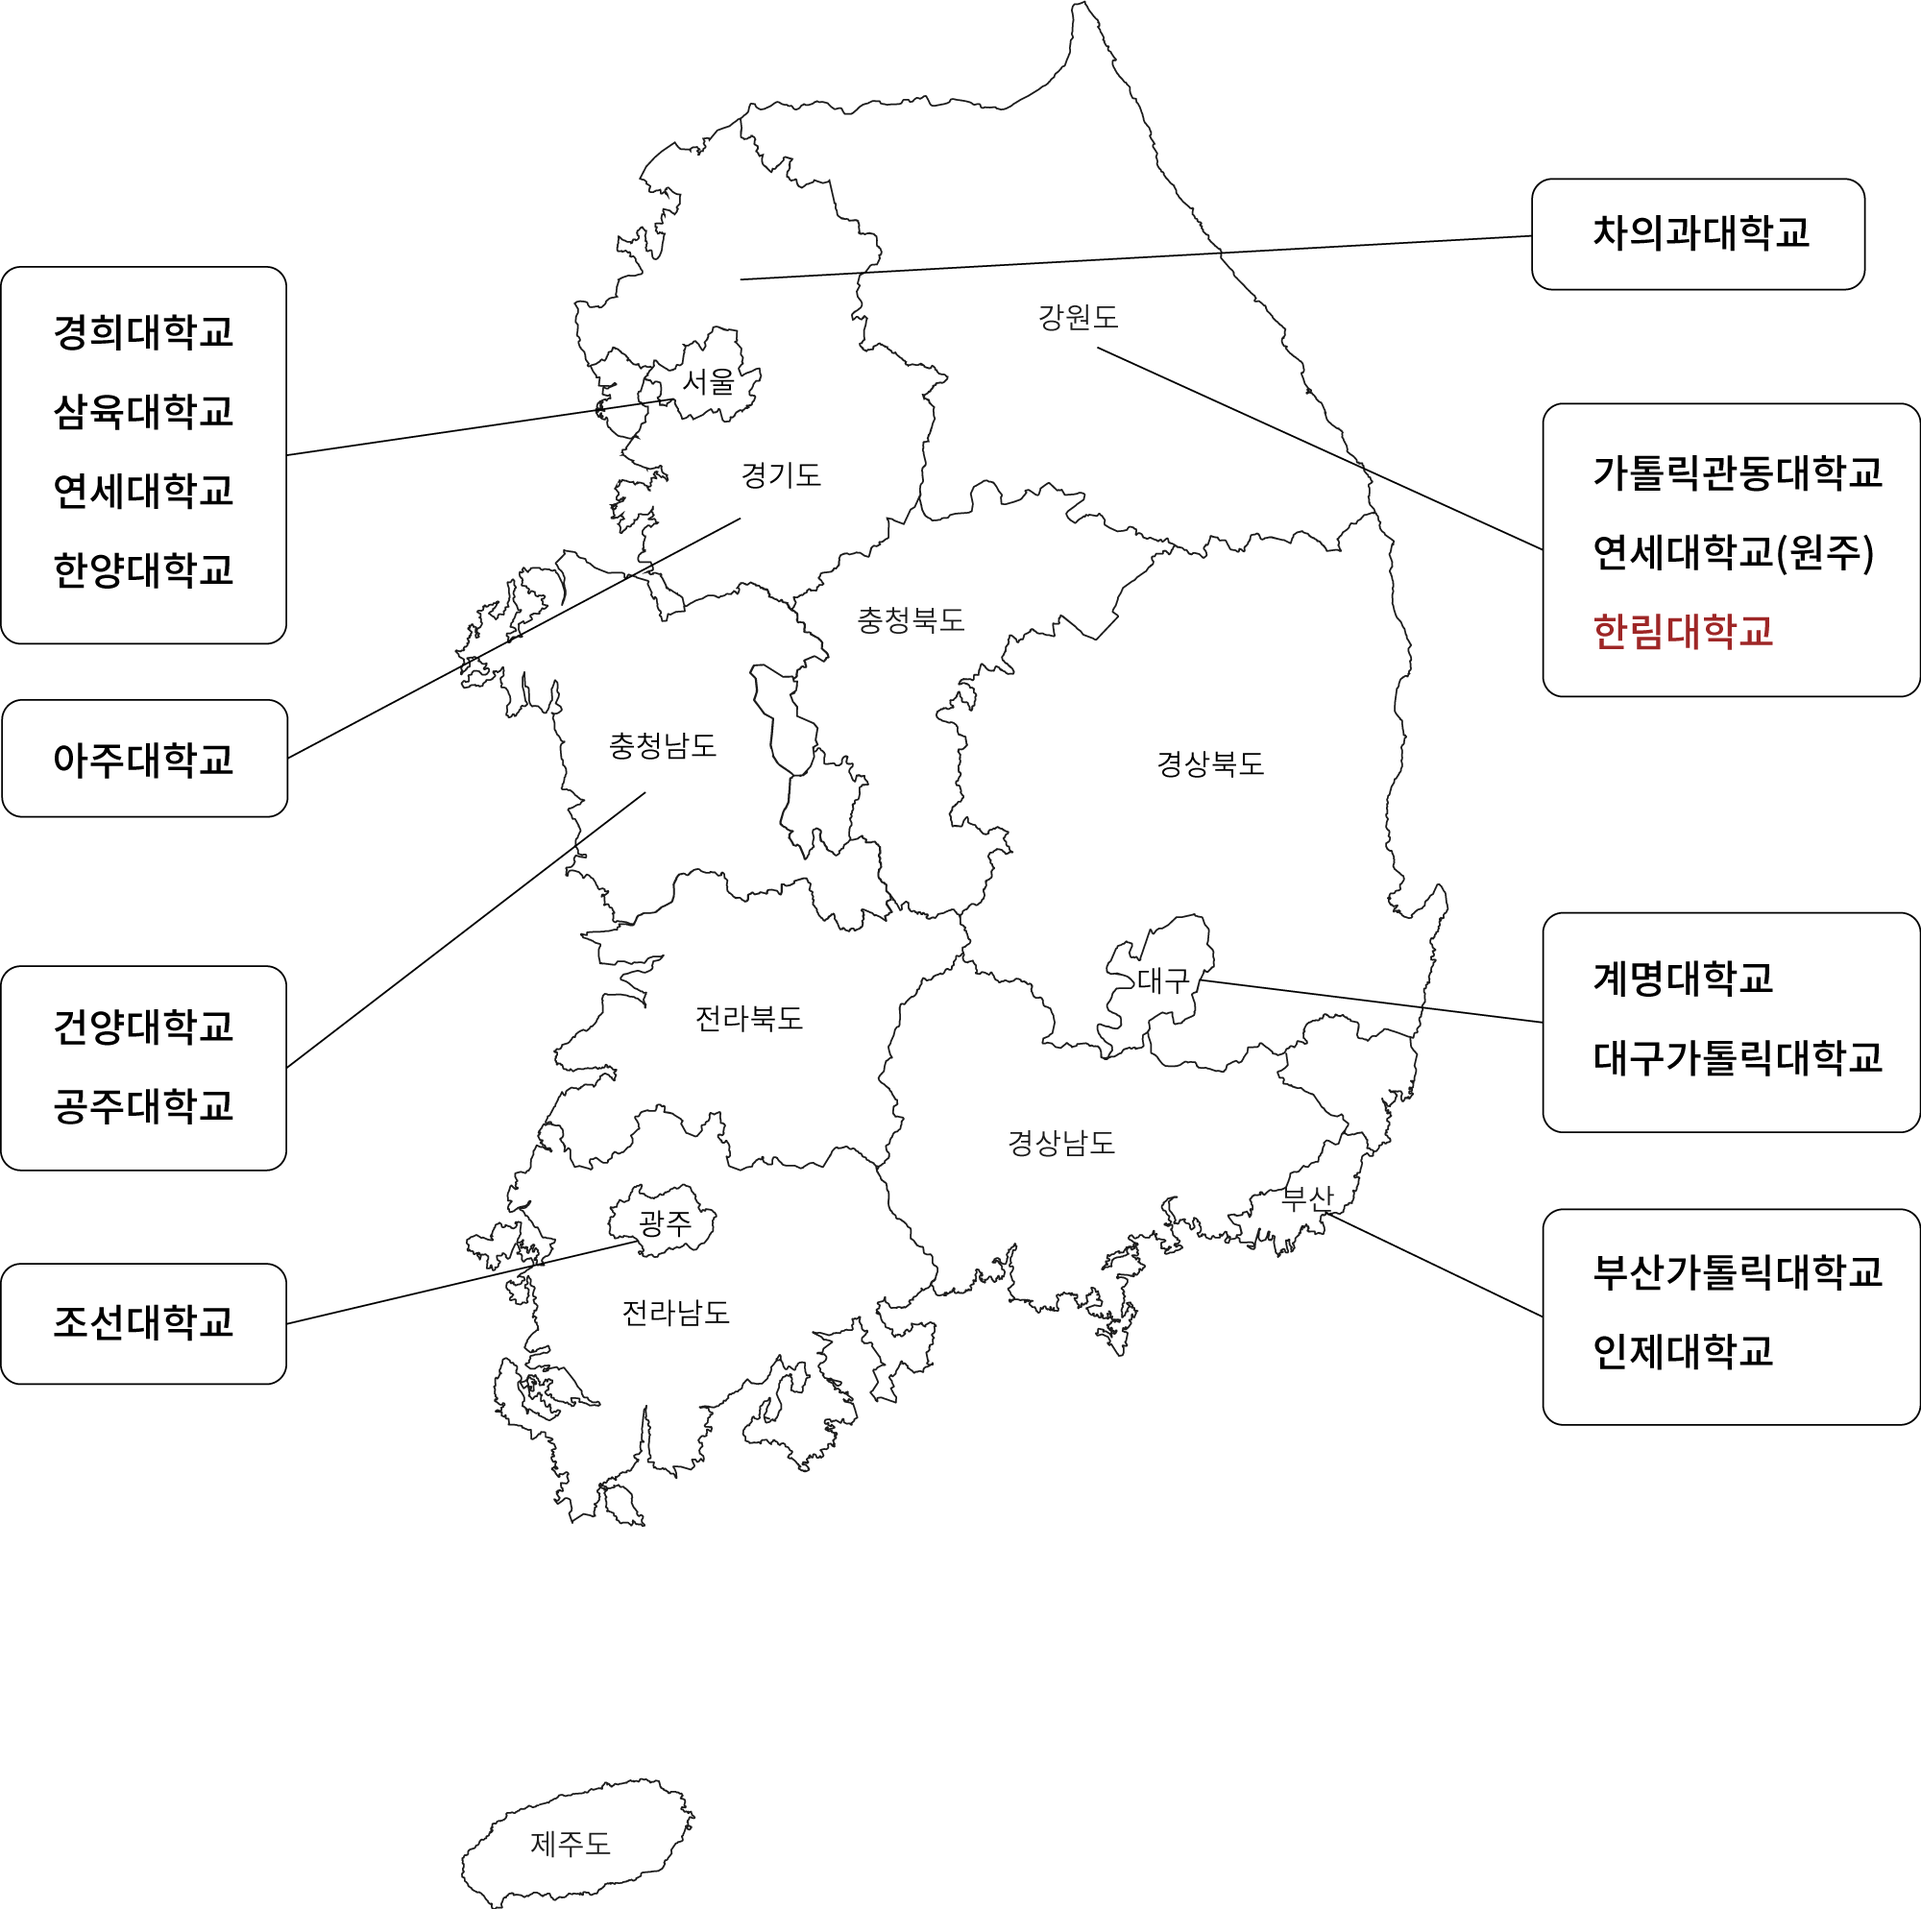
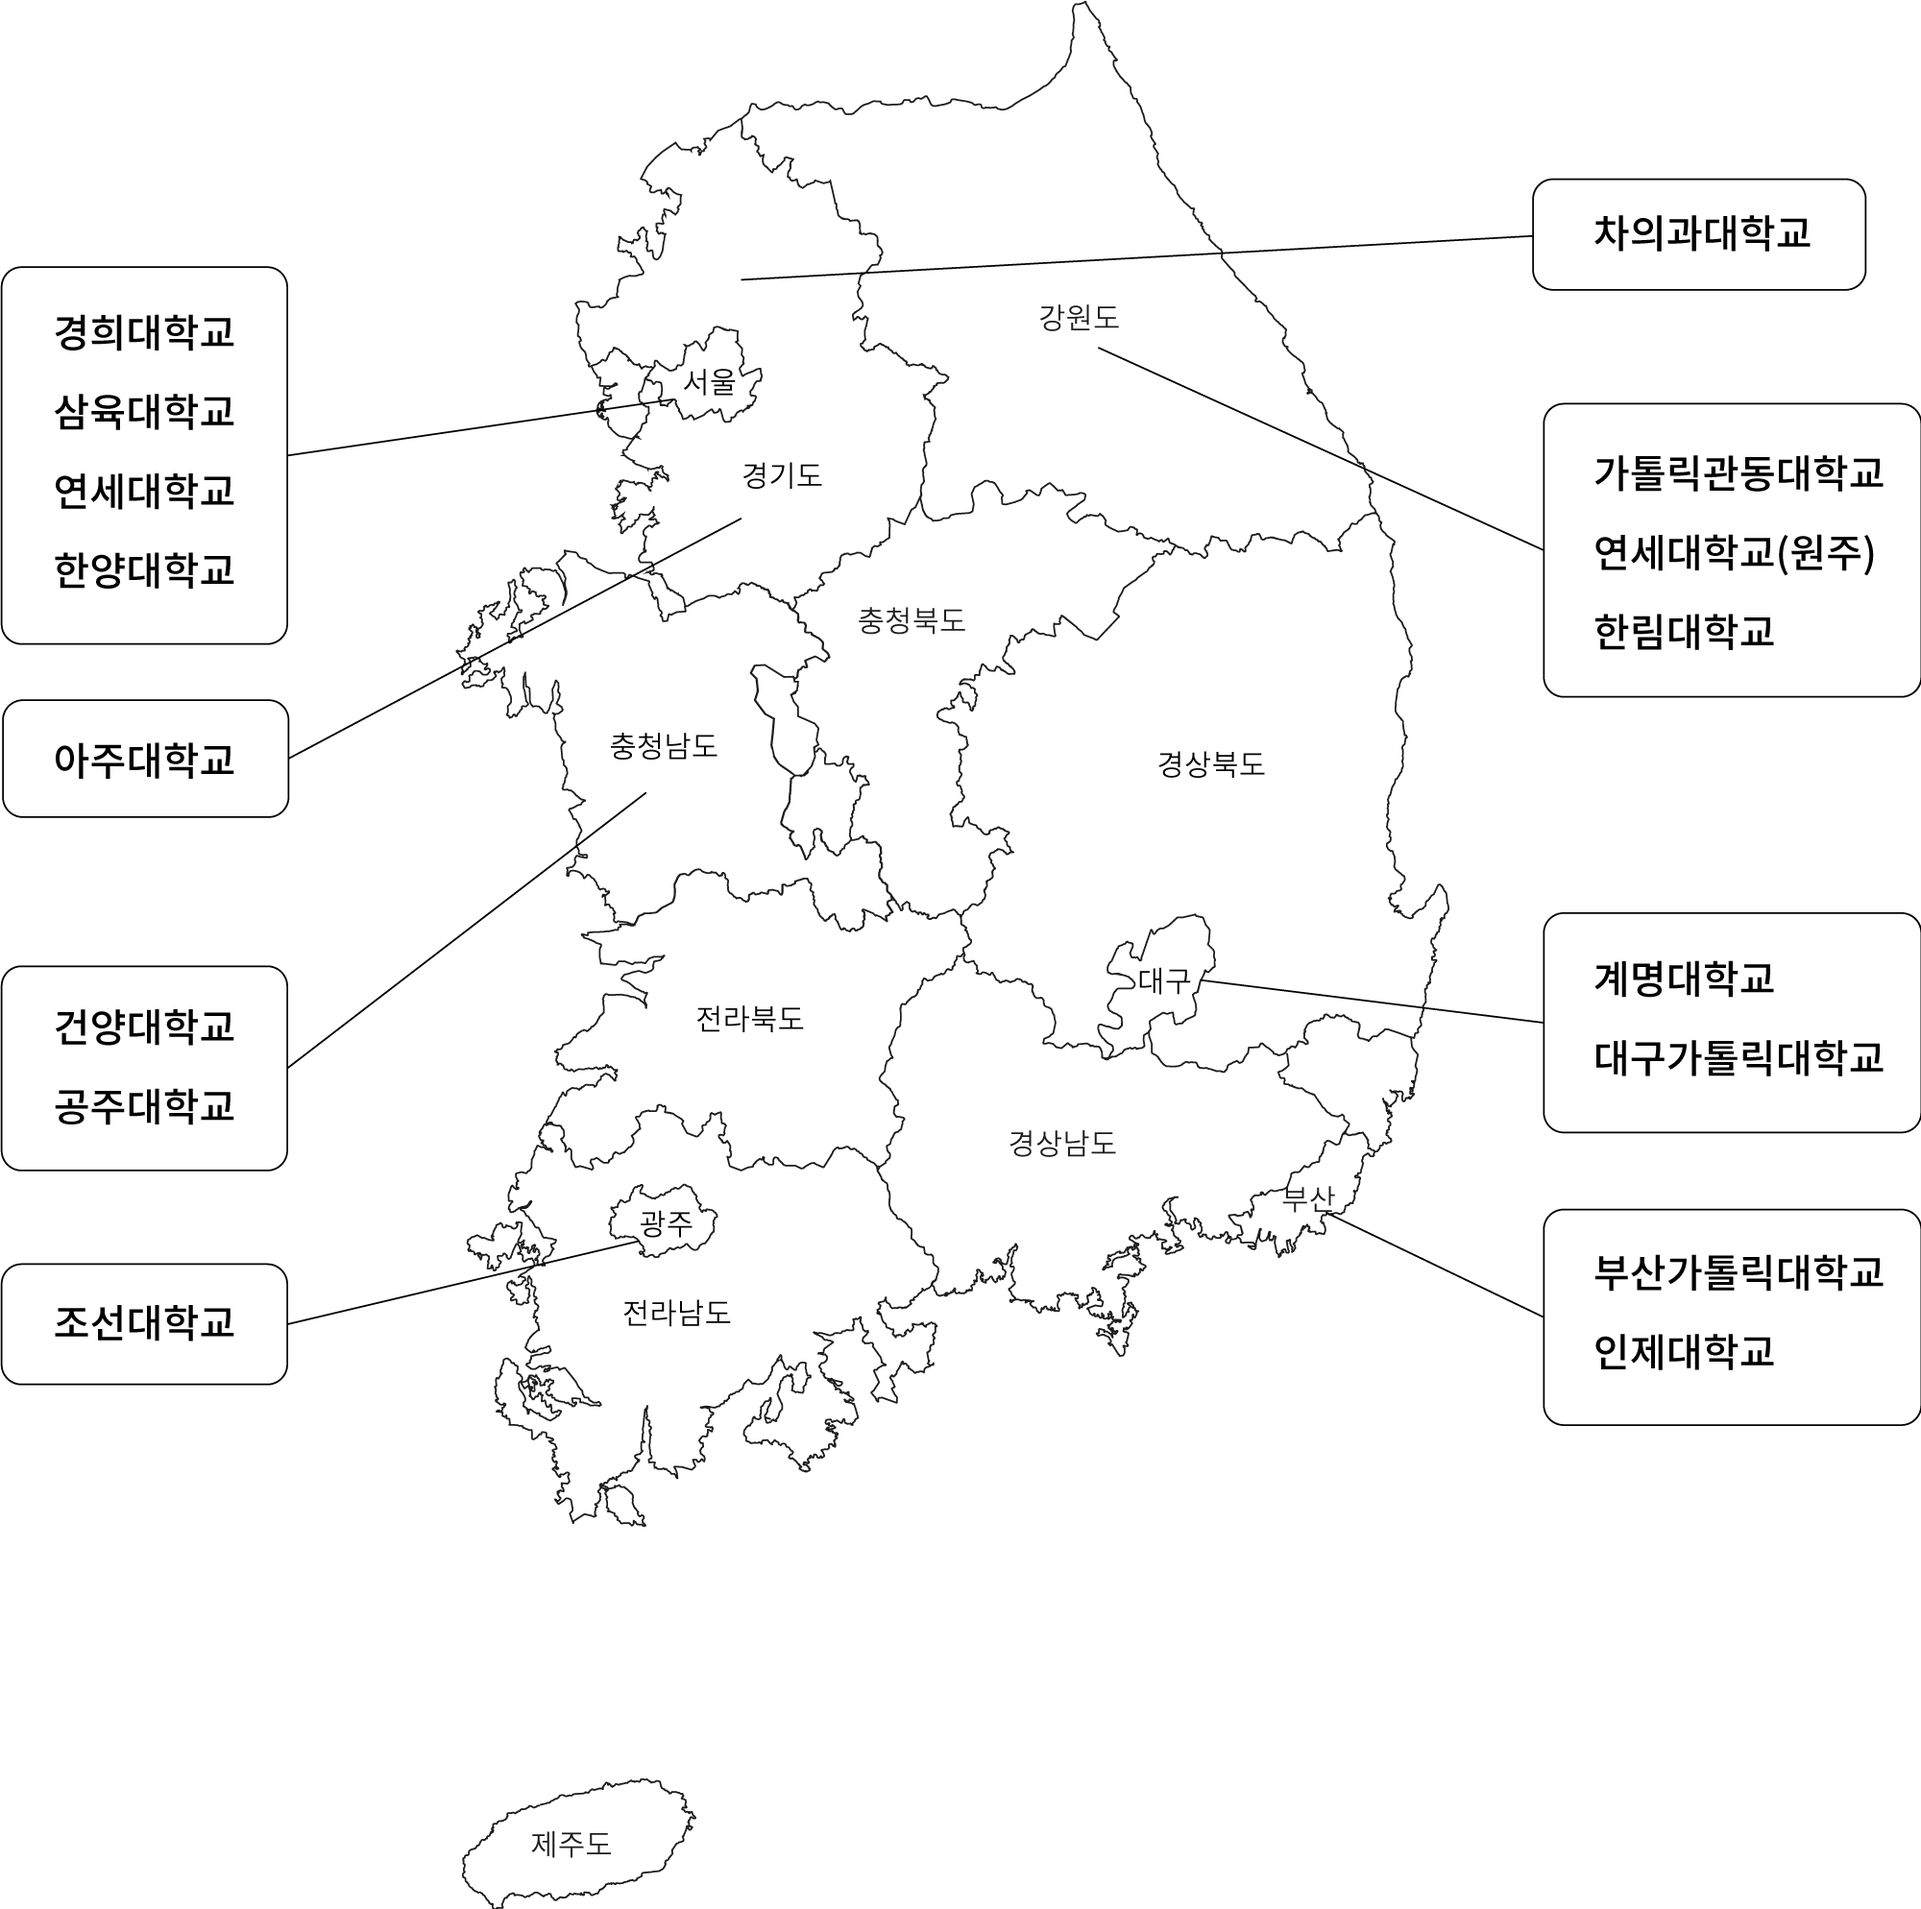
내용수정

diff --git a/board.html b/board.html
@@ -65,7 +65,7 @@
 </p>
 <div class="collapse" id="collapse1">
   <div class="card card-body" style="margin-bottom:15px;">
-    <p>2017년 9월 14일 간호사 인력수급 현황과 대책이라는 주제로 국회의뤈회관에서
+    <p>2017년 9월 14일 간호사 인력수급 현황과 대책이라는 주제로 국회의원회관에서
       대한간호정우회, 한국간호과학회, 한국간호대학장협의회, 한국RN-BSN협의회,
       한국간호교육학회, 국립간호대학장협의회 주관으로 다음과 같이
       열렸다.</p><br>
@@ -85,8 +85,12 @@
 </p>
 <div class="collapse" id="collapse2">
   <div class="card card-body">
-    <p>2017년 6월 19일 제17차 정기총회 및 워크숍을 서울역 티원에서
-      개최하였다.<br>
+    <p>
+      2017년 6월 19일 제17차 정기총회 및 워크숍을 서울역 티원에서 개최하였다.<br>
+      정기총회 안건은<br>
+      - 2017-2018년 사업계획서<br>
+      - 모집광고 시안<br>
+      - Accelerated-BSN program이었다.<br>
 워크숍은 "스마트기기를 활용한 쌍방향 교수법 및 플립드 러닝을 위한 디지털 미디어 활용"의 주제로 미래융합교육학회 신종우 회장의 진행으로 이루어졌다.
 </p>
   </div>

diff --git a/member.html b/member.html
@@ -89,8 +89,7 @@
        href="http://www.chosun.ac.kr/user/indexMain.do?siteId=nurse">바로가기</a></td></tr>
  <tr><td>14</td><td>차의과대학교</td><td>홍세훈</td><td>031-725-8324</td><td><a
        href="http://nursing.cha.ac.kr">바로가기</a></td></tr>
- <tr><td>15</td><td>한림대학교<span
-       style="color:red">(폐지예정)</span></td><td>김은정</td><td>033-248-2710</td><td><a
+ <tr><td>15</td><td>한림대학교(폐지예정)</td><td>김은정</td><td>033-248-2710</td><td><a
        href="http://nursing.hallym.ac.kr">바로가기</a></td></tr>
  <tr><td>16</td><td>한양대학교</td><td>황선영</td><td>02-2220-0700</td><td><a
        href="http://nursing.hanyang.ac.kr">바로가기</a></td></tr>
